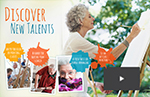
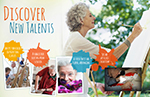
Thumbnail updates
Updated video thumbs, updated slide thumbs

diff --git a/app/css/app.css b/app/css/app.css
@@ -828,7 +828,7 @@ p {
     margin-left: 19%;
     opacity: 0; }
   .page3 #videobox {
-    background-image: url("../img/page_x_video.jpg");
+    background-image: url("../img/page_03_video.jpg");
     background-size: 100%;
     width: 284px;
     height: 179px;
@@ -954,7 +954,7 @@ p {
     opacity: 1;
     margin-top: 431px; }
   .page4 #videobox {
-    background-image: url("../img/page_x_video.jpg");
+    background-image: url("../img/page_04_video.jpg");
     background-size: 100%;
     top: 108px;
     left: 20px;
@@ -1075,7 +1075,7 @@ p {
     opacity: 1;
     margin-top: 470px; }
   .page6 #videobox {
-    background-image: url("../img/page_x_video.jpg");
+    background-image: url("../img/page_06_video.jpg");
     background-size: 100%;
     top: 27%;
     left: 11%;
@@ -1432,7 +1432,7 @@ p {
   .page9 #bluebar p {
     color: #fff;
     font-size: 17px;
-    line-height: 140%;
+    line-height: 130%;
     margin-top: -3%; }
   .page9 #bluebar h3 {
     font-family: "Amatic SC", sans-serif;
@@ -1441,7 +1441,7 @@ p {
     font-size: 46px;
     margin-top: 20px; }
   .page9 #bluebar h3.movedown {
-    margin-top: 188px; }
+    margin-top: 183px; }
   .page9 #bluebar h3.moveup {
     margin-top: -13px; }
   .page9 #vid-wrap {
@@ -1452,7 +1452,7 @@ p {
     margin-top: -112px;
     opacity: 1; }
   .page9 #videobox {
-    background-image: url("../img/page_x_video.jpg");
+    background-image: url("../img/page_09_video.jpg");
     background-size: 100%;
     top: 35%;
     left: 65%;
@@ -1692,7 +1692,7 @@ p {
     margin-top: 38%;
     opacity: 1; }
   .page11 #videobox {
-    background-image: url("../img/page_x_video.jpg");
+    background-image: url("../img/page_11_video.jpg");
     background-size: 100%;
     top: 30%;
     left: 65%;
@@ -1840,7 +1840,7 @@ p {
     margin-top: 25%;
     opacity: 1; }
   .page12 #videobox {
-    background-image: url("../img/page_x_video.jpg");
+    background-image: url("../img/page_12_video.jpg");
     background-size: 100%;
     top: 32px;
     left: 65%;

diff --git a/app/scss/_views.scss b/app/scss/_views.scss
@@ -390,7 +390,7 @@ opacity: 0;
 }
 
 #videobox {
-background-image: url("../img/page_x_video.jpg");
+background-image: url("../img/page_03_video.jpg");
 background-size: 100%;
 width: 284px;
 height: 179px;
@@ -549,7 +549,7 @@ margin-top: 431px;
 }
 
 #videobox {
-background-image: url("../img/page_x_video.jpg");
+background-image: url("../img/page_04_video.jpg");
 background-size: 100%;
 top: 108px;
 left: 20px;
@@ -714,7 +714,7 @@ margin-top:470px;
 }
 
 #videobox {
-background-image: url("../img/page_x_video.jpg");
+background-image: url("../img/page_06_video.jpg");
 background-size: 100%;
 top: 27%;
 left: 11%;
@@ -1158,7 +1158,7 @@ background-color: #66665c;
 	#bluebar p {
 	color: #fff;
 	font-size: 17px;
-	line-height: 140%;
+	line-height: 130%;
 	margin-top: -3%;
 	}
 
@@ -1171,7 +1171,7 @@ background-color: #66665c;
 	}
 	
 	#bluebar h3.movedown {
-	margin-top: 188px;
+	margin-top: 183px;
 	}
 	
 	#bluebar h3.moveup {
@@ -1188,7 +1188,7 @@ background-color: #66665c;
 	}
 	
 	#videobox {
-	background-image: url("../img/page_x_video.jpg");
+	background-image: url("../img/page_09_video.jpg");
 	background-size: 100%;
 	top: 35%;
 	left: 65%;
@@ -1478,7 +1478,7 @@ background-color: #66665c;
 	}
 
 	#videobox {
-	background-image: url("../img/page_x_video.jpg");
+	background-image: url("../img/page_11_video.jpg");
 	background-size: 100%;
 	top: 30%;
 	left: 65%;
@@ -1661,7 +1661,7 @@ background-color: #66665c;
 	}
 
 	#videobox {
-	background-image: url("../img/page_x_video.jpg");
+	background-image: url("../img/page_12_video.jpg");
 	background-size: 100%;
 	top: 32px;
 	left: 65%;

diff --git a/app/partials/page9.html b/app/partials/page9.html
@@ -28,7 +28,7 @@ function runJQuery(){
 	<h3>Walking Club</h3>
 	<p>Walking hand-in-hand as the seasons change from shades of green, to amber, to hues of grey, then green once more.</p>	
 		<div id="vid-wrap">
-			<div id="videobox" ng-click="doYoutube('zk_eB4x8T8U')"><img id="video-play" src="img/page_03_play.png" alt="play"></div>
+			<div id="videobox" ng-click="doYoutube('dy1MOc8Ywlo')"><img id="video-play" src="img/page_03_play.png" alt="play"></div>
 		</div>
 	<h3 class="movedown">Scenic Drives</h3>
 	<p>Enjoy the bustle of the city, the view of the mountains, the vastness of the ocean, and lush green scenery pass softly by your window.</p>

diff --git a/app/partials/page6.html b/app/partials/page6.html
@@ -25,7 +25,7 @@ function runJQuery(){
 	
 	<div id="vid-wrap">
 	<img id="arrow" src="img/page_06_hero.png" alt="live in action here">
-	<div id="videobox" ng-click="doYoutube('dy1MOc8Ywlo')"><img id="video-play" src="img/page_03_play.png" alt="play"></div>
+	<div id="videobox" ng-click="doYoutube('zk_eB4x8T8U')"><img id="video-play" src="img/page_03_play.png" alt="play"></div>
 	</div>
 
 	
